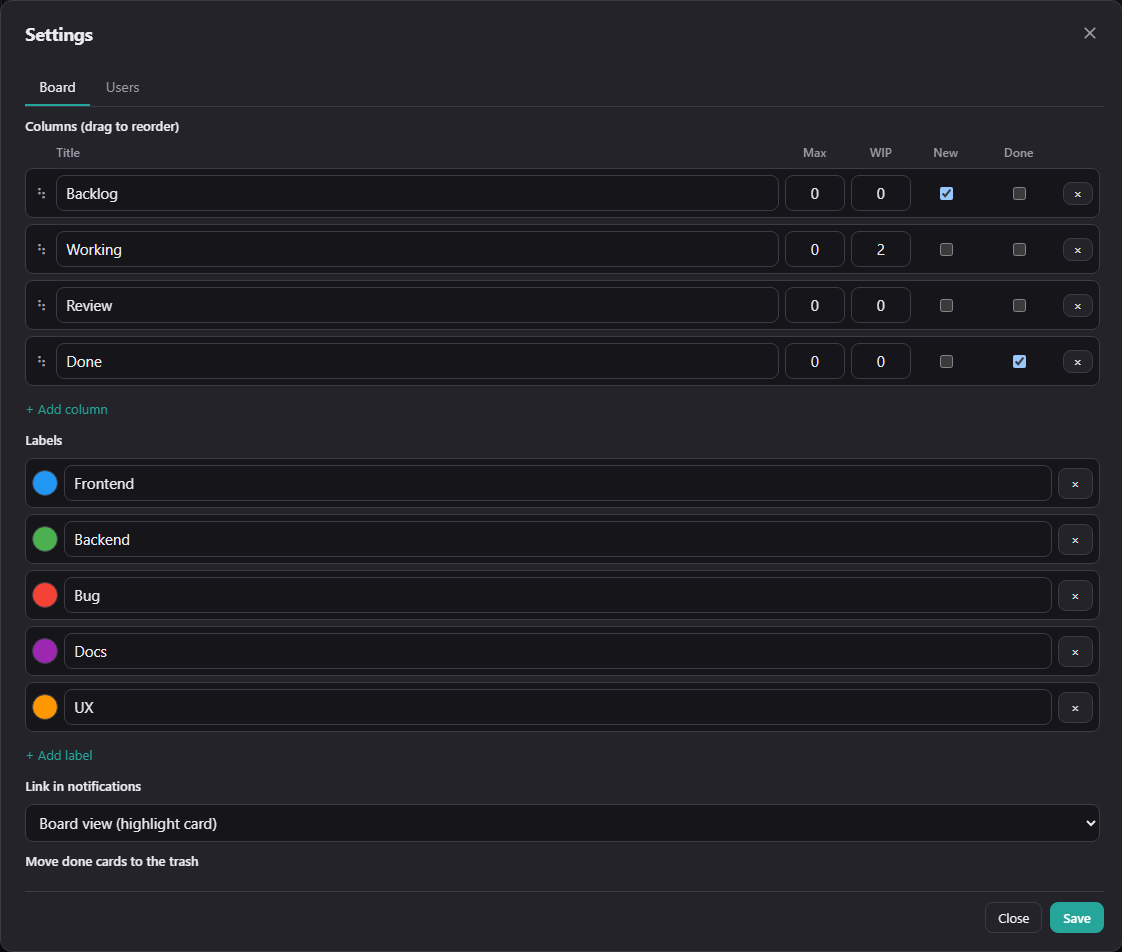
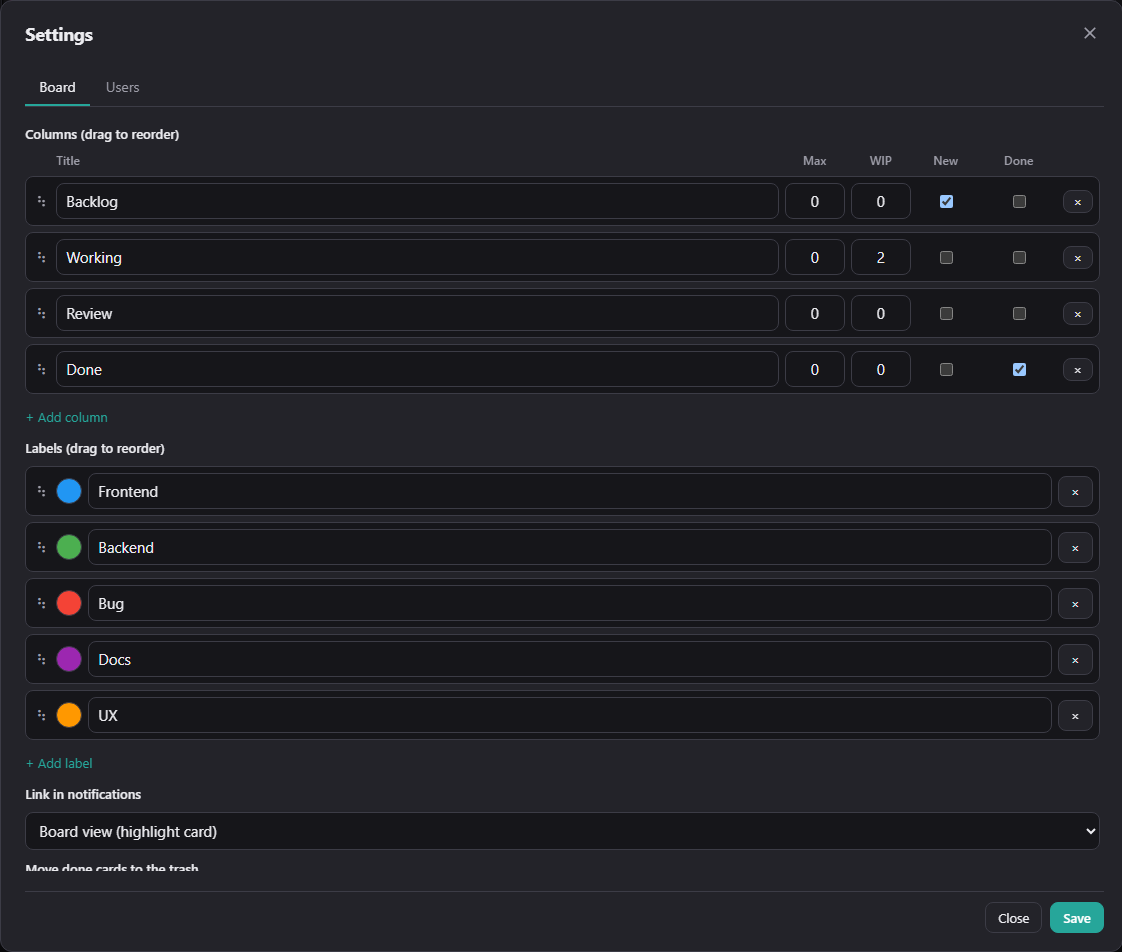
docs: Screenshots fuer 0.3.2 neu aufgenommen
Die Bilder stammten noch aus 0.3.1. Seither sind die drei grossen Dialoge
80 vw statt 60 vw breit, der Karteneditor hat aufklappbare Abschnitte, und im
Spaltenkopf koennen neben der Gesamtzahl drei Faelligkeitszahlen stehen.

Ausserdem waren die Faelligkeiten der Demo-Boards inzwischen samt und sonders
vorbei, auf den Bildern war also alles rot. Jetzt kommt jede Stufe einmal vor:
ueberfaellig, heute, morgen, spaeter und ohne Datum.

Zwei Dinge, die vorher schief waren:

- Im englischen Handbuch stand im Faelligkeitsfeld "26.08.2026". Das Feld ist
  ein natives input[type=date], sein Format kommt vom Browser. Der laeuft jetzt
  fuer die englischen Bilder mit --lang=en-US.
- Der Karteneditor war so hoch aufgenommen, dass die aufgeklappte Checkliste
  unten abgeschnitten war.

Die drei Admin-Bilder bleiben unveraendert; sie brauchen den Admin in der
jeweiligen Sprache und lassen sich nicht ueber die URL steuern.

Changed region(s): [[0.0, 0.1218, 0.967, 0.9139]]

diff --git a/docs/SCREENSHOTS.md b/docs/SCREENSHOTS.md
@@ -1,33 +1,68 @@
-# Screenshots für die Doku
+# Screenshots fuer die Doku
 
-Sprache je Ordner: deutsche Screenshots nach `docs/de/img/`, englische nach `docs/en/img/`.
-Aufnahme über die laufende Instanz; für Englisch die Instanz-Sprache auf `en` stellen (bzw. `&lang=en` anhängen). Für die Admin-Screenshots die Sprache der **admin.0-Instanz** umstellen (Instanzen → admin.0 → "Sprache". Sie übersteuert die Systemsprache).
+Sprache je Ordner: deutsche Screenshots nach "docs/de/img/", englische nach
+"docs/en/img/". Aufnahme an der laufenden Instanz, deutsch auf 8096, englisch auf
+8097; die Sprache kommt ueber "&lang=" an der URL. Fuer die Admin-Screenshots
+laesst sie sich nicht anhaengen, dort muss die Sprache der **admin.0-Instanz**
+umgestellt werden (Instanzen -> admin.0 -> "Sprache", sie uebersteuert die
+Systemsprache).
 
 | Datei | Ansicht | Quelle |
 |---|---|---|
-| `board.png` | Board-Übersicht | Board im Browser |
-| `card-editor.png` | Karten-Dialog | Stift-Symbol neben dem Kartentitel anklicken |
-| `settings.png` | Board-Manager, Tab *Board* (Spalten mit Max/WIP/Neu/Erledigt) | ⚙ |
-| `settings-labels.png` | Board-Manager: Labels + Link-Ziel | ⚙ → Tab *Board*, unten |
-| `settings-users.png` | Board-Manager, Tab *Benutzer* (Avatare + Farben) | ⚙ → Tab *Benutzer* |
-| `settings-boards.png` | Board-Manager: Board-Auswahl, Titel, Mitglieder | ⚙ → Tab *Board*, oben |
-| `share.png` | "Ansichten"-Dialog | Monitor-Symbol in der Kopfleiste |
-| `admin-general.png` | Instanzeinstellungen, Tab *Allgemein* | ioBroker-Admin |
-| `admin-users.png` | Instanzeinstellungen, Tab *Benutzer* | ioBroker-Admin |
-| `admin-email.png` | Instanzeinstellungen, Tab *Benachrichtigungen* | ioBroker-Admin |
-| `mobile.png` | Mobile Ansicht (gestapelte Spalten) | Smartphone (360x780, Faktor 2) |
-| `mobile-drag.png` | Mobile Ansicht - Schnellmenü beim Ziehen einer Karte | Smartphone (360x780, Faktor 2) |
+| "board.png" | Board-Uebersicht | Board im Browser |
+| "card-editor.png" | Karten-Dialog, Checkliste aufgeklappt | Stift-Symbol neben dem Kartentitel anklicken |
+| "settings.png" | Board-Manager, Tab "Board" (Spalten mit Max/WIP/Neu/Erledigt) | Zahnrad |
+| "settings-labels.png" | Board-Manager: Labels, Link-Ziel und Aufraeumen | Zahnrad, Tab "Board", unten |
+| "settings-users.png" | Board-Manager, Tab "Benutzer" (Avatare und Farben) | Zahnrad, Tab "Benutzer" |
+| "settings-boards.png" | Board-Manager: Board-Auswahl, Titel, Mitglieder | Zahnrad, Tab "Board", oben |
+| "share.png" | Dialog "Ansichten" | Monitor-Symbol in der Kopfleiste |
+| "admin-general.png" | Instanzeinstellungen, Tab "Allgemein" | ioBroker-Admin |
+| "admin-users.png" | Instanzeinstellungen, Tab "Benutzer" | ioBroker-Admin |
+| "admin-email.png" | Instanzeinstellungen, Tab "Benachrichtigungen" | ioBroker-Admin |
+| "mobile.png" | Mobile Ansicht (gestapelte Spalten) | Smartphone (360x780, Faktor 2) |
+| "mobile-drag.png" | Mobile Ansicht, Schnellmenue beim Ziehen einer Karte | Smartphone (360x780, Faktor 2) |
 
-Empfohlen: Fensterbreite ~1200-1450 px (Board), heller **oder** dunkler Modus konsistent.
+Alle Bilder im **dunklen Modus**, an der URL mit "&theme=dark" erzwungen.
 
-## Maße
+## Masse
 
-Die Dialogbilder zeigen **nur den Dialog**, ohne das Board dahinter. Der Dialog ist
-60 vw breit, bei einem 1868 px breiten Fenster also 1120 px. Genau die haben alle
-`settings-*.png`, `card-editor.png` und `share.png`; ihre Höhe richtet sich nach dem
-Inhalt. Das Board wird bei denselben 1868 px aufgenommen (876 px hoch deutsch,
-720 px englisch), die Mobilbilder bei 360 x 780 mit Faktor 2, also 720 x 1560.
+Die Dialogbilder zeigen nur den Dialog, ohne das Board dahinter. Karten-Dialog,
+Board-Manager und Ansichten sind seit 0.3.2 **80 vw** breit; fuer die
+ueberlieferten 1122 px braucht es also ein **1403 px** breites Fenster. Die Hoehe
+von Karten-Dialog und Board-Manager haengt am Fenster ("100vh - 48px"), die des
+Ansichten-Dialogs am Inhalt.
 
-Die Admin-Bilder sind auf die Konfigurationsfläche zugeschnitten, ohne ioBroker-Rahmen
-und Seitenleiste, und 1504 px breit. Schmaler geht nicht mehr: Die Benutzertabelle hat
-seit 0.3.0 elf Ereignis-Spalten, die sonst rechts aus dem Bild laufen.
+| Bild | Fenster | Ergebnis |
+|---|---|---|
+| "board.png" | 1868 x 890 (de), 1868 x 512 (en) | so gross wie das Fenster |
+| "card-editor.png" | 1403 x 1050 | 1122 x 1002 |
+| "settings*.png" | 1403 x 1000 | 1122 x 952 |
+| "share.png" | 1403 x 1000 | 1122 x 661 |
+| "mobile*.png" | 360 x 780, Faktor 2 | 720 x 1560 |
+
+Die Fensterhoehe fuers Board richtet sich nach dem Inhalt: So hoch, dass die
+laengste Spalte gerade noch ganz hineinpasst und darunter nicht mehr als ein
+Rand Leerraum steht. Deshalb sind die beiden Sprachen hier verschieden hoch.
+
+Die Admin-Bilder sind auf die Konfigurationsflaeche zugeschnitten, ohne
+ioBroker-Rahmen und Seitenleiste, und 1504 px breit. Schmaler geht nicht mehr:
+Die Benutzertabelle hat seit 0.3.0 elf Ereignis-Spalten, die sonst rechts aus
+dem Bild laufen.
+
+## Was leicht schiefgeht
+
+**Die Browsersprache faerbt die nativen Felder.** Faelligkeitsdatum und Uhrzeit
+sind "input type=date" beziehungsweise "time"; ihr Format kommt vom Browser, nicht
+vom Adapter. Wird der Browser deutsch gestartet, steht im englischen Handbuch
+"04.09.2026" statt "09/04/2026". Chrome mit "--lang=en-US --accept-lang=en-US"
+starten.
+
+**Die Demo-Daten veralten.** Faelligkeiten sind absolute Daten. Ein paar Wochen
+nach der Aufnahme ist auf dem Bild alles rot, und die Farben fuer heute, morgen
+und spaeter kommen nirgends mehr vor. Vor einer neuen Runde die Termine der
+Testboards auf den Aufnahmetag ausrichten: mindestens eine Karte ueberfaellig,
+eine heute, eine morgen, eine spaeter und eine ohne Datum.
+
+**Die Zahlen im Spaltenkopf stehen im localStorage.** Ohne Zutun zeigt jede
+Spalte nur ihre Gesamtzahl. Fuer "board.png" wird "kanban.countModes" vorher
+gesetzt, damit die erste Spalte auch die drei Faelligkeitszahlen zeigt.
